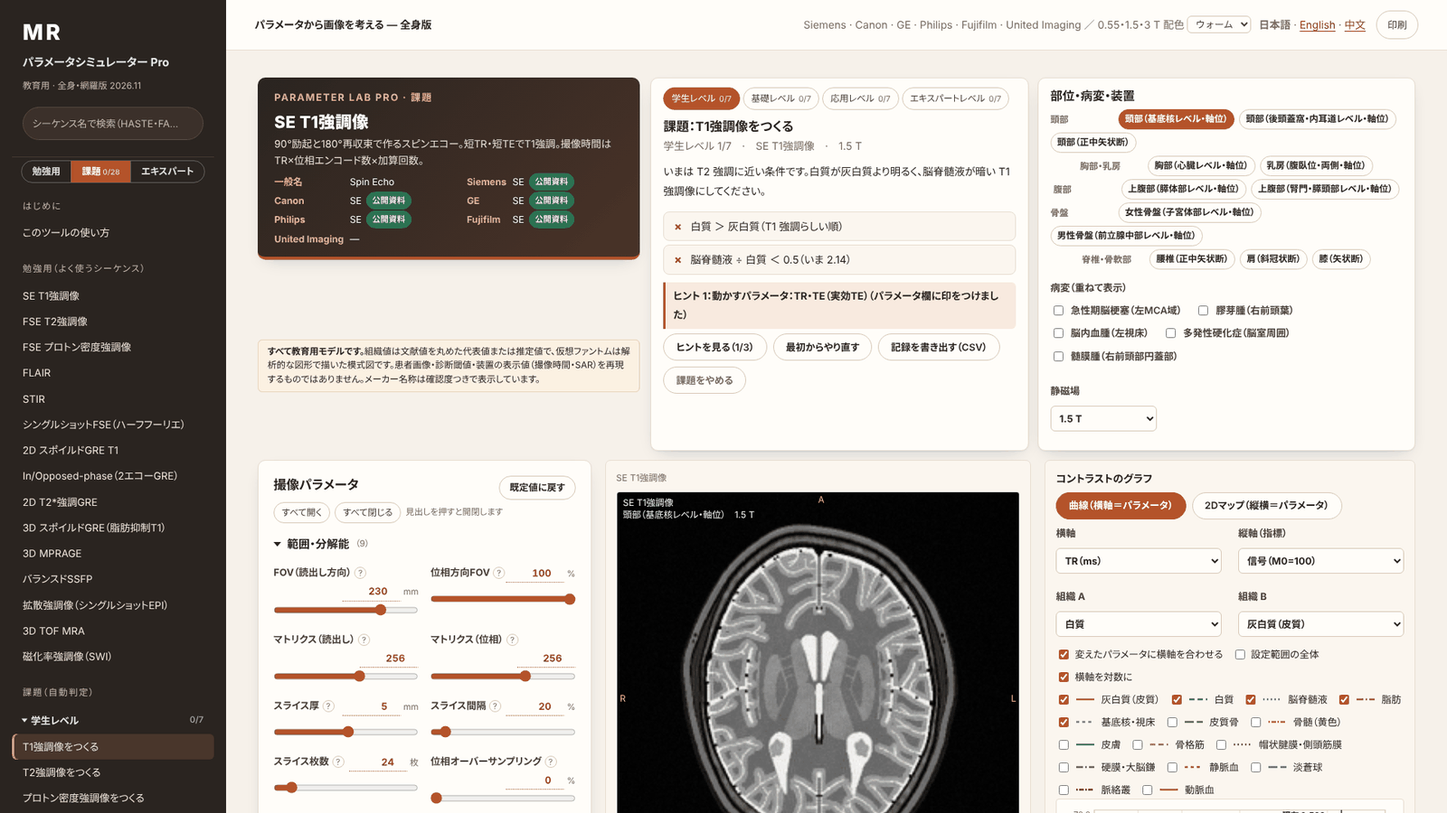
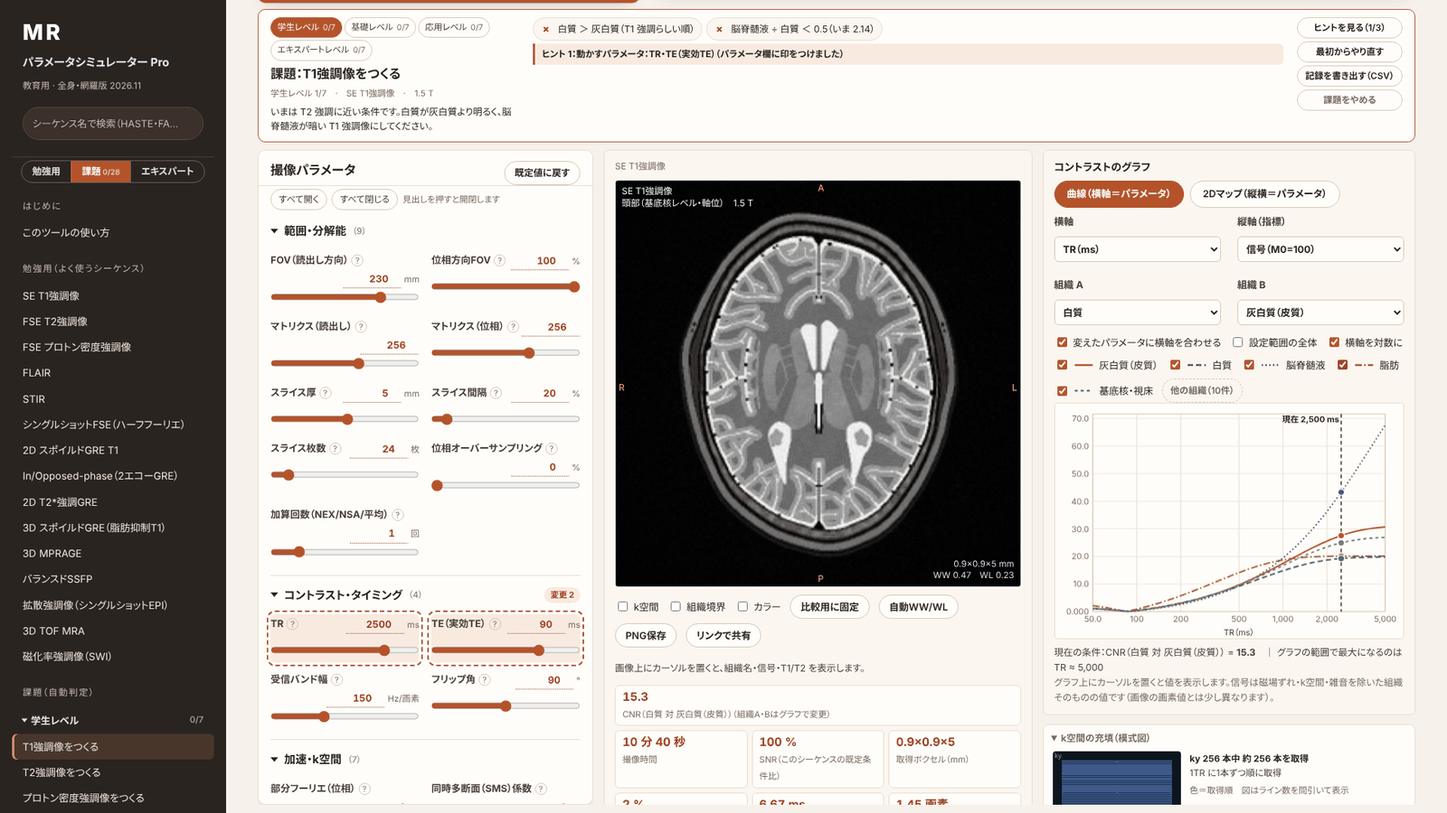
PC の課題を作業画面のすぐ上の横長の帯に：課題・パラメータ・画像・グラフを 1 画面で
- 課題カードを 3 区画（タイトル・目標／原因の選択・条件・ヒント・結果／ボタン）の横長の帯にし、帯と 3 列で画面の高さに収める
- 課題を始めると帯が画面の上端に来るようにスクロール。スマホは従来どおりパラメータタブの先頭
- README の課題の説明とスクリーンショットを更新

Claude-Session: https://claude.ai/code/session_01BFr4Rqe7V4PB4mjcRbLySi

diff --git a/en.html b/en.html
@@ -766,6 +766,26 @@ body.mob .mlvsel button{font-size:11.5px;padding:3px 8px}
   body:not(.mob) #v-sim .chapter-header{padding:13px 20px 11px}
   body:not(.mob) #v-sim .chapter-header p{margin-bottom:2px}
 }
+
+/* ===== PC の課題バー（作業画面のすぐ上、横長） ===== */
+.mcol1,.mcol2,.mcol3{min-width:0}
+#mbar{scroll-margin-top:12px;margin:0 0 10px}
+body.mbar:not(.mob) #mstat{display:none!important}
+#mbar #learncard{display:flex;gap:18px;align-items:flex-start;margin:0;padding:10px 16px;border:1px solid var(--rt-accent);box-shadow:0 1px 0 rgba(0,0,0,.02)}
+#mbar .mcol1{flex:0 0 330px} #mbar .mcol2{flex:1 1 auto} #mbar .mcol3{flex:0 0 auto}
+#mbar .mlvsel{margin:0 0 6px;gap:3px} #mbar .mlvsel button{padding:2px 8px;font-size:11.5px}
+#mbar h2{font-size:16px;margin:0 0 2px;line-height:1.35} #mbar .mlv{margin:0 0 4px;font-size:11.5px} #mbar .mgoal{font-size:12.5px;line-height:1.55;margin:0}
+#mbar .mquiz{margin:0 0 6px;padding:5px 9px} #mbar .mquiz .mq{font-size:12.5px;margin:1px 0 4px} #mbar .mqopts button{padding:2px 9px;font-size:12px} #mbar .mqfb{margin:3px 0 0;font-size:12px}
+#mbar .mquiz .mq:last-child{display:none}
+#mbar .mcrit{display:flex;flex-wrap:wrap;gap:5px;margin:0 0 4px;font-size:12.5px}
+#mbar .mcrit li{margin:0;padding:3px 9px;border-radius:999px}
+#mbar .mhints .mhint{font-size:12px;margin:3px 0;padding:3px 9px}
+#mbar .mcol3 .sim-presets{display:flex;flex-direction:column;gap:4px;margin:0}
+#mbar .mcol3 .sim-presets button{font-size:12px;padding:4px 10px;min-height:0;white-space:nowrap}
+#mbar .mdone{margin-top:4px;padding:6px 10px} #mbar .mdone p{font-size:12px;margin:4px 0} #mbar .mdone button{font-size:12px;padding:3px 10px}
+@media(min-width:1200px) and (min-height:680px){
+  body.mbar:not(.mob) .pro-grid{height:calc(100vh - 34px - var(--mbarH,0px))}
+}
 #toast{position:fixed;left:50%;bottom:24px;transform:translateX(-50%) translateY(20px);background:var(--rt-ink,#1b2430);color:#fff;padding:9px 16px;border-radius:999px;font-size:13.5px;opacity:0;pointer-events:none;transition:all .2s;z-index:100}
 #toast.on{opacity:1;transform:translateX(-50%) translateY(0)}
 body.mob #toast{bottom:84px}
@@ -844,6 +864,7 @@ body.mob select{font-size:15px}
      <div class="les" id="les"></div><div id="popts" class="sim-controls"></div>
      <div class="sim-controls" id="sys"></div></section>
   </div>
+  <div id="mbar" class="mbar" hidden aria-label="Task"></div>
   <div class="pro-grid">
    <div class="pro-params">
     <section class="sim-card" id="sim-params"><h2>Imaging parameters <button type="button" class="chipbtn" id="reset" style="float:right;font-size:12.5px">Reset to defaults</button></h2>
@@ -9262,7 +9283,7 @@ function setHash(h){ try{ history.replaceState(null,'','#'+h); }catch(e){} }
 function startLearn(seq){ endAttempt(); var L=MS.LEARN_MAP[seq]; mode='learn'; st=MS.defaultState(L.ph,seq,null); st.B0=B0pref; st.les={}; if(L.popt) Object.keys(L.popt).forEach(function(k){ st.popt[k]=L.popt[k]; }); (L.les||[]).forEach(function(k){ st.les[k]=true; }); if(L.agent){ st.agent=L.agent; st.cphase=L.cphase||0; }
   chart.mode='curve'; chart.xk=L.x; chart.metric=L.m; chart.A=L.A; chart.B=L.B; chart.hide={}; chart.follow=true; lastChanged=null; prevRes=null; manualW=null; cur=(seq==='dwi')?1:0; snrRef=null; refInfo();
   buildPhantomSel(); buildSys(); buildLesions(); buildSeqList(); buildParams(); seqCard(); schedule(); setHash('learn'); }
-function learnCard(){ var box=$('#learncard'); if(mode==='mission'&&mission){ missionCard(box); return; } mstatHide(); var L=mode==='learn'?MS.LEARN_MAP[st.seq]:null; $('#protop').classList.toggle('one',!L); if(!L){ box.hidden=true; return; } box.hidden=false; box.innerHTML='';
+function learnCard(){ var box=$('#learncard'); if(mode==='mission'&&mission){ missionCard(box); return; } mstatHide(); placeMissionBar(); var L=mode==='learn'?MS.LEARN_MAP[st.seq]:null; $('#protop').classList.toggle('one',!L); if(!L){ box.hidden=true; return; } box.hidden=false; box.innerHTML='';
   box.appendChild(el('h2',{},'Teaching points')); box.appendChild(el('p',{},L.goal)); var ul=el('ul',{style:'font-size:14px'}); L.pts.forEach(function(t){ ul.appendChild(el('li',{},t)); }); box.appendChild(ul);
   var pr=el('div',{class:'sim-presets'}); L.pre.forEach(function(x){ var b=el('button',{type:'button'},x[0]); b.onclick=function(){ Object.keys(x[1]).forEach(function(k){ st.p[k]=x[1][k]; lastChanged=k; }); if(x[2]) Object.keys(x[2]).forEach(function(k){ st[k]=x[2][k]; }); buildParams(); schedule(); }; pr.appendChild(b); }); box.appendChild(pr);
   var sw=el('p',{class:'sim-note',style:'margin-top:14px'}); var a=el('button',{type:'button',class:'quiet-link',style:'border:0;background:none;color:var(--rt-link);text-decoration:underline;padding:0;font-size:12px'},'Open the same sequence in Expert mode (all parameters)'); a.onclick=function(){ mode='expert'; buildSeqList(); buildParams(); seqCard(); setHash('expert'); schedule(); }; sw.appendChild(document.createTextNode('To explore in more detail:')); sw.appendChild(a); box.appendChild(sw); }
@@ -9576,7 +9597,7 @@ function tables(){ function cf(c){ if(c==='—'||!c) return ''; return '<span cl
   $('#refs').innerHTML=MS.REFS.map(function(r){ return '<li>['+r.k+'] '+r.t+' PMID: <a href="https://pubmed.ncbi.nlm.nih.gov/'+r.pmid+'/" target="_blank" rel="noopener">'+r.pmid+'</a></li>'; }).join('');
   $('#about').innerHTML=MS.ABOUT; }
 /* ---------- 初期化 ---------- */
-function init(){ tables(); try{ if(window.top!==window) $('#save').hidden=true; }catch(e){ $('#save').hidden=true; }
+function init(){ setTimeout(function(){ booted=true; },1500); tables(); try{ if(window.top!==window) $('#save').hidden=true; }catch(e){ $('#save').hidden=true; }
   $('#seqq').oninput=buildSeqList;
   $('#reset').onclick=function(){ newState(st.phantom,st.seq,true); }; initGroupTools(); mobSetup();
   (function(){ var ts=$('#themesel'); if(!ts) return; ts.value=document.documentElement.getAttribute('data-theme')||'standard'; ts.onchange=function(){ var v=ts.value; if(v==='standard') document.documentElement.removeAttribute('data-theme'); else document.documentElement.setAttribute('data-theme',v); try{ localStorage.setItem('mrisimTheme',v); }catch(e){} if(res&&view==='sim') show(res); }; })();
@@ -9605,7 +9626,7 @@ function mobSetup(){ var on=!!(MQ&&MQ.matches); document.body.classList.toggle('
   if(on && !mobHome){ mobHome={out:[out.parentNode,out.nextSibling], lc:[lc.parentNode,lc.nextSibling]}; v.insertBefore(out,v.firstChild); pp.insertBefore(lc,pp.firstChild);
     if(!$('#mtabs')) buildMtabs(); setMtab(mtab,true); }
   else if(!on && mobHome){ mobHome.out[0].insertBefore(out,mobHome.out[1]); mobHome.lc[0].insertBefore(lc,mobHome.lc[1]); mobHome=null; document.body.removeAttribute('data-mtab'); }
-  placeChart();
+  placeChart(); placeMissionBar();
   if(was!==on && res && view==='sim') show(res); }
 function buildMtabs(){ var nav=el('nav',{id:'mtabs','aria-label':'Switch view'});
   [['setup','Anatomy'],['params','Parameters'],['chart','Chart'],['info','Details']].forEach(function(t){ var b=el('button',{type:'button','data-t':t[0]},t[1]); b.onclick=function(){ setMtab(t[0]); }; nav.appendChild(b); });
@@ -9613,6 +9634,7 @@ function buildMtabs(){ var nav=el('nav',{id:'mtabs','aria-label':'Switch view'})
 function setMtab(t,quiet){ mtab=t; document.body.setAttribute('data-mtab',t); document.querySelectorAll('#mtabs button').forEach(function(b){ b.setAttribute('aria-pressed',String(b.getAttribute('data-t')===t)); });
   if(!quiet) window.scrollTo(0,0);
   if(t==='chart' && res){ try{ drawChart(); }catch(e){} } }
+if(MQW){ var pmb=function(){ placeMissionBar(); }; if(MQW.addEventListener) MQW.addEventListener('change',pmb); else if(MQW.addListener) MQW.addListener(pmb); }
 if(MQ){ if(MQ.addEventListener) MQ.addEventListener('change',mobSetup); else if(MQ.addListener) MQ.addListener(mobSetup); }
 
 /* ---------- パルスシーケンス図 ---------- */
@@ -9709,7 +9731,7 @@ function applyShared(obj){ if(!obj||!MS.SEQ[obj.sq]||!MS.PHANTOMS[obj.ph]) retur
 var toastT=null; function toast(t){ var d=$('#toast'); if(!d){ d=el('div',{id:'toast',role:'status','aria-live':'polite'}); document.body.appendChild(d); } d.textContent=t; d.classList.add('on'); clearTimeout(toastT); toastT=setTimeout(function(){ d.classList.remove('on'); },2200); }
 
 /* ---------- 課題モード（自動判定・ヒント・記録） ---------- */
-var mission=null, mrec=null, mhint=0, openLv={};
+var mission=null, mrec=null, mhint=0, openLv={}, booted=false;
 var LVN={'Student':'Student level','Basic':'Basic level','Advanced':'Advanced level','Expert':'Expert level'};
 function lvProgress(lv){ var sv=solvedSet(), ms=MS.MISSIONS.filter(function(M){ return M.lv===lv; }); return {n:ms.length, done:ms.filter(function(M){ return sv[M.id]; }).length, next:(ms.filter(function(M){ return !sv[M.id]; })[0]||ms[0])}; }
 function loadRecs(){ try{ return JSON.parse(localStorage.getItem('mrisimMissionLog')||'[]'); }catch(e){ return []; } }
@@ -9719,19 +9741,28 @@ function endAttempt(){ if(mrec&&!mrec.saved){ mrec.saved=true; var a=loadRecs();
 function startMission(id){ var M=MS.MISSION_MAP[id]; if(!M) return; endAttempt(); mission=M; mode='mission';
   st=MS.defaultState(M.ph,M.seq,null); st.B0=M.B0||B0pref; st.les={}; if(M.les) Object.keys(M.les).forEach(function(k){ st.les[k]=M.les[k]; }); if(M.popt) Object.keys(M.popt).forEach(function(k){ st.popt[k]=M.popt[k]; });
   if(M.init){ if(M.init.p) Object.keys(M.init.p).forEach(function(k){ st.p[k]=M.init.p[k]; }); if(M.init.st) Object.keys(M.init.st).forEach(function(k){ st[k]=M.init.st[k]; }); }
+  if(booted&&!document.body.classList.contains('mob')) setTimeout(function(){ var b=$('#mbar'); if(b&&!b.hidden){ var r=b.getBoundingClientRect(); if(r.top<0||r.top>window.innerHeight*0.6) b.scrollIntoView({behavior:'smooth',block:'start'}); } },80);
   mrec={id:M.id,start:Date.now(),hints:0,changes:-1,solved:false,quiz:0}; mhint=0; quizOK=false; quizTry=0; if(document.body.classList.contains('mob')&&typeof setMtab==='function') setMtab('params',true);
   chart.follow=true; chart.hide={}; lastChanged=null; prevRes=null; manualW=null; cur=0; refInfo(); defaultAB();
   buildPhantomSel(); buildSys(); buildLesions(); buildSeqList(); buildParams(); seqCard(); learnCard(); schedule(); }
-function missionCard(box){ var M=mission; $('#protop').classList.remove('one'); box.hidden=false; box.innerHTML='';
+function missionCard(box){ var M=mission; $('#protop').classList.remove('one'); box.hidden=false; box.innerHTML=''; var c1=el('div',{class:'mcol1'}), c2=el('div',{class:'mcol2'}), c3=el('div',{class:'mcol3'}); box.appendChild(c1); box.appendChild(c2); box.appendChild(c3); var root=box; box=c1;
   var lvb=el('div',{class:'mlvsel',role:'group','aria-label':'Task level'}); (MS.MISSION_LEVELS||[]).forEach(function(lv){ var pr=lvProgress(lv); if(!pr.n) return; var b=el('button',{type:'button',class:lv===M.lv?'on':'','aria-pressed':String(lv===M.lv)}); b.appendChild(document.createTextNode(LVN[lv]||lv)); b.appendChild(el('small',{},pr.done+'/'+pr.n)); b.onclick=function(){ if(lv!==M.lv) startMission(lvProgress(lv).next.id); }; lvb.appendChild(b); }); box.appendChild(lvb);
   var ms_=MS.MISSIONS.filter(function(x){ return x.lv===M.lv; }), qi=ms_.indexOf(M)+1;
   var h=el('h2',{},'Task: '+M.title); box.appendChild(h); box.appendChild(el('p',{class:'mlv'},(LVN[M.lv]||M.lv)+' '+qi+'/'+ms_.length+'　·　'+MS.SEQ[M.seq].n+'　·　'+(st.B0)+' T'));
-  box.appendChild(el('p',{},M.goal)); quizBox(box,M); var ul=el('ul',{id:'mcrit',class:'mcrit','aria-live':'polite'}); critsOf(M).forEach(function(c){ ul.appendChild(el('li',{},c.label)); }); box.appendChild(ul);
-  var hb=el('div',{id:'mhints',class:'mhints'}); box.appendChild(hb);
+  box.appendChild(el('p',{class:'mgoal'},M.goal)); box=c2; quizBox(box,M); var ul=el('ul',{id:'mcrit',class:'mcrit','aria-live':'polite'}); critsOf(M).forEach(function(c){ ul.appendChild(el('li',{},c.label)); }); box.appendChild(ul);
+  var hb=el('div',{id:'mhints',class:'mhints'}); box.appendChild(hb); box.appendChild(el('div',{id:'mresult'})); box=c3;
   var row=el('div',{class:'sim-presets'}); var b1=el('button',{type:'button',id:'mhintbtn'},'Show hint (0/'+mHints(M).length+')'); b1.onclick=function(){ if(mhint>=mHints(M).length) return; mhint++; if(mrec&&!mrec.solved) mrec.hints++; renderHints(); if(mhint===1&&M.keys){ var f=document.querySelector('#params .mhl'); if(f&&document.body.classList.contains('mob')) setTimeout(function(){ f.scrollIntoView({behavior:'smooth',block:'center'}); },350); } };
   var b2=el('button',{type:'button'},'Start over'); b2.onclick=function(){ startMission(M.id); };
   var b3=el('button',{type:'button'},'Export records (CSV)'); b3.onclick=exportRecs; var b4=el('button',{type:'button',class:'mquit'},'Quit task'); b4.onclick=function(){ quitMission(); }; row.appendChild(b1); row.appendChild(b2); row.appendChild(b3); row.appendChild(b4); box.appendChild(row);
-  box.appendChild(el('div',{id:'mresult'})); renderHints(); }
+  renderHints(); placeMissionBar(); }
+/* PC の課題：課題カードを作業画面のすぐ上に横長の帯で置く */
+var MQW=window.matchMedia?window.matchMedia('(min-width:1200px) and (min-height:680px)'):null, mbarRO=null;
+function placeMissionBar(){ var lc=$('#learncard'), bar=$('#mbar'), top=$('#protop'); if(!lc||!bar||!top) return; var mob=document.body.classList.contains('mob');
+  var want=!mob && mode==='mission' && !!mission && !!(MQW&&MQW.matches) && view==='sim';
+  if(want){ if(lc.parentNode!==bar) bar.appendChild(lc); bar.hidden=false; top.classList.add('one'); document.body.classList.add('mbar');
+    if(!mbarRO&&window.ResizeObserver){ mbarRO=new ResizeObserver(function(){ document.documentElement.style.setProperty('--mbarH',bar.offsetHeight+'px'); }); mbarRO.observe(bar); } document.documentElement.style.setProperty('--mbarH',bar.offsetHeight+'px'); }
+  else { if(!mob && lc.parentNode===bar) top.insertBefore(lc,top.firstChild); bar.hidden=true; document.body.classList.remove('mbar'); document.documentElement.style.setProperty('--mbarH','0px'); } }
+
 function mHints(M){ var ks=M.keys||[]; if(!ks.length) return M.hints; return ['Parameters to change: '+ks.map(keyName).join('; ')+' (marked in the parameter panel)'].concat(M.hints); }
 function keyName(k){ if(k==='fs') return 'Fat suppression'; if(k==='resp') return 'Respiration'; if(k==='satband') return 'Spatial saturation pulse'; if(k==='vat') return 'VAT'; if(k==='semac') return 'SEMAC'; var d=MS.PDEF[k]; return d?d.n:k; }
 function markMissionKeys(){ document.querySelectorAll('.sim-control.mhl,.chk.mhl').forEach(function(e){ e.classList.remove('mhl'); }); if(mode!=='mission'||!mission||mhint<1||!mission.keys) return;
@@ -9754,7 +9785,7 @@ function missionEval(){ if(mode!=='mission'||!mission||!res||!res.outs||!res.out
   else rb.innerHTML=''; }
 /* 課題を終えて、いまの条件のままエキスパート用へ */
 function quitMission(silent){ if(mode!=='mission') return; endAttempt(); mode='expert'; mission=null; mrec=null; mhint=0; mstatHide();
-  var c=$('#learncard'); if(c){ c.hidden=true; c.innerHTML=''; } $('#protop').classList.add('one');
+  var c=$('#learncard'); if(c){ c.hidden=true; c.innerHTML=''; } placeMissionBar(); $('#protop').classList.add('one');
   if(!silent){ seqCard(); learnCard(); buildSeqList(); buildParams(); schedule(); toast('Task ended'); } setHash('expert'); }
 
 function mstat(ok,n,all){ var b=$('#mstat'); if(!b){ var host=$('#metrics'); if(!host) return; b=el('button',{type:'button',id:'mstat',class:'mstat'}); b.onclick=function(){ if(document.body.classList.contains('mob')) setMtab('params'); var c=$('#learncard'); if(c) c.scrollIntoView({behavior:'smooth',block:'start'}); }; host.parentNode.insertBefore(b,host); }

diff --git a/zh.html b/zh.html
@@ -766,6 +766,26 @@ body.mob .mlvsel button{font-size:11.5px;padding:3px 8px}
   body:not(.mob) #v-sim .chapter-header{padding:13px 20px 11px}
   body:not(.mob) #v-sim .chapter-header p{margin-bottom:2px}
 }
+
+/* ===== PC の課題バー（作業画面のすぐ上、横長） ===== */
+.mcol1,.mcol2,.mcol3{min-width:0}
+#mbar{scroll-margin-top:12px;margin:0 0 10px}
+body.mbar:not(.mob) #mstat{display:none!important}
+#mbar #learncard{display:flex;gap:18px;align-items:flex-start;margin:0;padding:10px 16px;border:1px solid var(--rt-accent);box-shadow:0 1px 0 rgba(0,0,0,.02)}
+#mbar .mcol1{flex:0 0 330px} #mbar .mcol2{flex:1 1 auto} #mbar .mcol3{flex:0 0 auto}
+#mbar .mlvsel{margin:0 0 6px;gap:3px} #mbar .mlvsel button{padding:2px 8px;font-size:11.5px}
+#mbar h2{font-size:16px;margin:0 0 2px;line-height:1.35} #mbar .mlv{margin:0 0 4px;font-size:11.5px} #mbar .mgoal{font-size:12.5px;line-height:1.55;margin:0}
+#mbar .mquiz{margin:0 0 6px;padding:5px 9px} #mbar .mquiz .mq{font-size:12.5px;margin:1px 0 4px} #mbar .mqopts button{padding:2px 9px;font-size:12px} #mbar .mqfb{margin:3px 0 0;font-size:12px}
+#mbar .mquiz .mq:last-child{display:none}
+#mbar .mcrit{display:flex;flex-wrap:wrap;gap:5px;margin:0 0 4px;font-size:12.5px}
+#mbar .mcrit li{margin:0;padding:3px 9px;border-radius:999px}
+#mbar .mhints .mhint{font-size:12px;margin:3px 0;padding:3px 9px}
+#mbar .mcol3 .sim-presets{display:flex;flex-direction:column;gap:4px;margin:0}
+#mbar .mcol3 .sim-presets button{font-size:12px;padding:4px 10px;min-height:0;white-space:nowrap}
+#mbar .mdone{margin-top:4px;padding:6px 10px} #mbar .mdone p{font-size:12px;margin:4px 0} #mbar .mdone button{font-size:12px;padding:3px 10px}
+@media(min-width:1200px) and (min-height:680px){
+  body.mbar:not(.mob) .pro-grid{height:calc(100vh - 34px - var(--mbarH,0px))}
+}
 #toast{position:fixed;left:50%;bottom:24px;transform:translateX(-50%) translateY(20px);background:var(--rt-ink,#1b2430);color:#fff;padding:9px 16px;border-radius:999px;font-size:13.5px;opacity:0;pointer-events:none;transition:all .2s;z-index:100}
 #toast.on{opacity:1;transform:translateX(-50%) translateY(0)}
 body.mob #toast{bottom:84px}
@@ -844,6 +864,7 @@ body.mob select{font-size:15px}
      <div class="les" id="les"></div><div id="popts" class="sim-controls"></div>
      <div class="sim-controls" id="sys"></div></section>
   </div>
+  <div id="mbar" class="mbar" hidden aria-label="任务"></div>
   <div class="pro-grid">
    <div class="pro-params">
     <section class="sim-card" id="sim-params"><h2>扫描参数 <button type="button" class="chipbtn" id="reset" style="float:right;font-size:12.5px">恢复默认值</button></h2>
@@ -9262,7 +9283,7 @@ function setHash(h){ try{ history.replaceState(null,'','#'+h); }catch(e){} }
 function startLearn(seq){ endAttempt(); var L=MS.LEARN_MAP[seq]; mode='learn'; st=MS.defaultState(L.ph,seq,null); st.B0=B0pref; st.les={}; if(L.popt) Object.keys(L.popt).forEach(function(k){ st.popt[k]=L.popt[k]; }); (L.les||[]).forEach(function(k){ st.les[k]=true; }); if(L.agent){ st.agent=L.agent; st.cphase=L.cphase||0; }
   chart.mode='curve'; chart.xk=L.x; chart.metric=L.m; chart.A=L.A; chart.B=L.B; chart.hide={}; chart.follow=true; lastChanged=null; prevRes=null; manualW=null; cur=(seq==='dwi')?1:0; snrRef=null; refInfo();
   buildPhantomSel(); buildSys(); buildLesions(); buildSeqList(); buildParams(); seqCard(); schedule(); setHash('learn'); }
-function learnCard(){ var box=$('#learncard'); if(mode==='mission'&&mission){ missionCard(box); return; } mstatHide(); var L=mode==='learn'?MS.LEARN_MAP[st.seq]:null; $('#protop').classList.toggle('one',!L); if(!L){ box.hidden=true; return; } box.hidden=false; box.innerHTML='';
+function learnCard(){ var box=$('#learncard'); if(mode==='mission'&&mission){ missionCard(box); return; } mstatHide(); placeMissionBar(); var L=mode==='learn'?MS.LEARN_MAP[st.seq]:null; $('#protop').classList.toggle('one',!L); if(!L){ box.hidden=true; return; } box.hidden=false; box.innerHTML='';
   box.appendChild(el('h2',{},'学习要点')); box.appendChild(el('p',{},L.goal)); var ul=el('ul',{style:'font-size:14px'}); L.pts.forEach(function(t){ ul.appendChild(el('li',{},t)); }); box.appendChild(ul);
   var pr=el('div',{class:'sim-presets'}); L.pre.forEach(function(x){ var b=el('button',{type:'button'},x[0]); b.onclick=function(){ Object.keys(x[1]).forEach(function(k){ st.p[k]=x[1][k]; lastChanged=k; }); if(x[2]) Object.keys(x[2]).forEach(function(k){ st[k]=x[2][k]; }); buildParams(); schedule(); }; pr.appendChild(b); }); box.appendChild(pr);
   var sw=el('p',{class:'sim-note',style:'margin-top:14px'}); var a=el('button',{type:'button',class:'quiet-link',style:'border:0;background:none;color:var(--rt-link);text-decoration:underline;padding:0;font-size:12px'},'在专家模式中打开同一序列（全部参数）'); a.onclick=function(){ mode='expert'; buildSeqList(); buildParams(); seqCard(); setHash('expert'); schedule(); }; sw.appendChild(document.createTextNode('需要更深入了解时：')); sw.appendChild(a); box.appendChild(sw); }
@@ -9576,7 +9597,7 @@ function tables(){ function cf(c){ if(c==='—'||!c) return ''; return '<span cl
   $('#refs').innerHTML=MS.REFS.map(function(r){ return '<li>['+r.k+'] '+r.t+' PMID: <a href="https://pubmed.ncbi.nlm.nih.gov/'+r.pmid+'/" target="_blank" rel="noopener">'+r.pmid+'</a></li>'; }).join('');
   $('#about').innerHTML=MS.ABOUT; }
 /* ---------- 初期化 ---------- */
-function init(){ tables(); try{ if(window.top!==window) $('#save').hidden=true; }catch(e){ $('#save').hidden=true; }
+function init(){ setTimeout(function(){ booted=true; },1500); tables(); try{ if(window.top!==window) $('#save').hidden=true; }catch(e){ $('#save').hidden=true; }
   $('#seqq').oninput=buildSeqList;
   $('#reset').onclick=function(){ newState(st.phantom,st.seq,true); }; initGroupTools(); mobSetup();
   (function(){ var ts=$('#themesel'); if(!ts) return; ts.value=document.documentElement.getAttribute('data-theme')||'standard'; ts.onchange=function(){ var v=ts.value; if(v==='standard') document.documentElement.removeAttribute('data-theme'); else document.documentElement.setAttribute('data-theme',v); try{ localStorage.setItem('mrisimTheme',v); }catch(e){} if(res&&view==='sim') show(res); }; })();
@@ -9605,7 +9626,7 @@ function mobSetup(){ var on=!!(MQ&&MQ.matches); document.body.classList.toggle('
   if(on && !mobHome){ mobHome={out:[out.parentNode,out.nextSibling], lc:[lc.parentNode,lc.nextSibling]}; v.insertBefore(out,v.firstChild); pp.insertBefore(lc,pp.firstChild);
     if(!$('#mtabs')) buildMtabs(); setMtab(mtab,true); }
   else if(!on && mobHome){ mobHome.out[0].insertBefore(out,mobHome.out[1]); mobHome.lc[0].insertBefore(lc,mobHome.lc[1]); mobHome=null; document.body.removeAttribute('data-mtab'); }
-  placeChart();
+  placeChart(); placeMissionBar();
   if(was!==on && res && view==='sim') show(res); }
 function buildMtabs(){ var nav=el('nav',{id:'mtabs','aria-label':'切换显示'});
   [['setup','部位·病灶'],['params','参数'],['chart','曲线'],['info','详情']].forEach(function(t){ var b=el('button',{type:'button','data-t':t[0]},t[1]); b.onclick=function(){ setMtab(t[0]); }; nav.appendChild(b); });
@@ -9613,6 +9634,7 @@ function buildMtabs(){ var nav=el('nav',{id:'mtabs','aria-label':'切换显示'}
 function setMtab(t,quiet){ mtab=t; document.body.setAttribute('data-mtab',t); document.querySelectorAll('#mtabs button').forEach(function(b){ b.setAttribute('aria-pressed',String(b.getAttribute('data-t')===t)); });
   if(!quiet) window.scrollTo(0,0);
   if(t==='chart' && res){ try{ drawChart(); }catch(e){} } }
+if(MQW){ var pmb=function(){ placeMissionBar(); }; if(MQW.addEventListener) MQW.addEventListener('change',pmb); else if(MQW.addListener) MQW.addListener(pmb); }
 if(MQ){ if(MQ.addEventListener) MQ.addEventListener('change',mobSetup); else if(MQ.addListener) MQ.addListener(mobSetup); }
 
 /* ---------- パルスシーケンス図 ---------- */
@@ -9709,7 +9731,7 @@ function applyShared(obj){ if(!obj||!MS.SEQ[obj.sq]||!MS.PHANTOMS[obj.ph]) retur
 var toastT=null; function toast(t){ var d=$('#toast'); if(!d){ d=el('div',{id:'toast',role:'status','aria-live':'polite'}); document.body.appendChild(d); } d.textContent=t; d.classList.add('on'); clearTimeout(toastT); toastT=setTimeout(function(){ d.classList.remove('on'); },2200); }
 
 /* ---------- 課題モード（自動判定・ヒント・記録） ---------- */
-var mission=null, mrec=null, mhint=0, openLv={};
+var mission=null, mrec=null, mhint=0, openLv={}, booted=false;
 var LVN={'学生':'学生级','基础':'基础级','进阶':'进阶级','专家':'专家级'};
 function lvProgress(lv){ var sv=solvedSet(), ms=MS.MISSIONS.filter(function(M){ return M.lv===lv; }); return {n:ms.length, done:ms.filter(function(M){ return sv[M.id]; }).length, next:(ms.filter(function(M){ return !sv[M.id]; })[0]||ms[0])}; }
 function loadRecs(){ try{ return JSON.parse(localStorage.getItem('mrisimMissionLog')||'[]'); }catch(e){ return []; } }
@@ -9719,19 +9741,28 @@ function endAttempt(){ if(mrec&&!mrec.saved){ mrec.saved=true; var a=loadRecs();
 function startMission(id){ var M=MS.MISSION_MAP[id]; if(!M) return; endAttempt(); mission=M; mode='mission';
   st=MS.defaultState(M.ph,M.seq,null); st.B0=M.B0||B0pref; st.les={}; if(M.les) Object.keys(M.les).forEach(function(k){ st.les[k]=M.les[k]; }); if(M.popt) Object.keys(M.popt).forEach(function(k){ st.popt[k]=M.popt[k]; });
   if(M.init){ if(M.init.p) Object.keys(M.init.p).forEach(function(k){ st.p[k]=M.init.p[k]; }); if(M.init.st) Object.keys(M.init.st).forEach(function(k){ st[k]=M.init.st[k]; }); }
+  if(booted&&!document.body.classList.contains('mob')) setTimeout(function(){ var b=$('#mbar'); if(b&&!b.hidden){ var r=b.getBoundingClientRect(); if(r.top<0||r.top>window.innerHeight*0.6) b.scrollIntoView({behavior:'smooth',block:'start'}); } },80);
   mrec={id:M.id,start:Date.now(),hints:0,changes:-1,solved:false,quiz:0}; mhint=0; quizOK=false; quizTry=0; if(document.body.classList.contains('mob')&&typeof setMtab==='function') setMtab('params',true);
   chart.follow=true; chart.hide={}; lastChanged=null; prevRes=null; manualW=null; cur=0; refInfo(); defaultAB();
   buildPhantomSel(); buildSys(); buildLesions(); buildSeqList(); buildParams(); seqCard(); learnCard(); schedule(); }
-function missionCard(box){ var M=mission; $('#protop').classList.remove('one'); box.hidden=false; box.innerHTML='';
+function missionCard(box){ var M=mission; $('#protop').classList.remove('one'); box.hidden=false; box.innerHTML=''; var c1=el('div',{class:'mcol1'}), c2=el('div',{class:'mcol2'}), c3=el('div',{class:'mcol3'}); box.appendChild(c1); box.appendChild(c2); box.appendChild(c3); var root=box; box=c1;
   var lvb=el('div',{class:'mlvsel',role:'group','aria-label':'任务级别'}); (MS.MISSION_LEVELS||[]).forEach(function(lv){ var pr=lvProgress(lv); if(!pr.n) return; var b=el('button',{type:'button',class:lv===M.lv?'on':'','aria-pressed':String(lv===M.lv)}); b.appendChild(document.createTextNode(LVN[lv]||lv)); b.appendChild(el('small',{},pr.done+'/'+pr.n)); b.onclick=function(){ if(lv!==M.lv) startMission(lvProgress(lv).next.id); }; lvb.appendChild(b); }); box.appendChild(lvb);
   var ms_=MS.MISSIONS.filter(function(x){ return x.lv===M.lv; }), qi=ms_.indexOf(M)+1;
   var h=el('h2',{},'任务：'+M.title); box.appendChild(h); box.appendChild(el('p',{class:'mlv'},(LVN[M.lv]||M.lv)+' '+qi+'/'+ms_.length+'　·　'+MS.SEQ[M.seq].n+'　·　'+(st.B0)+' T'));
-  box.appendChild(el('p',{},M.goal)); quizBox(box,M); var ul=el('ul',{id:'mcrit',class:'mcrit','aria-live':'polite'}); critsOf(M).forEach(function(c){ ul.appendChild(el('li',{},c.label)); }); box.appendChild(ul);
-  var hb=el('div',{id:'mhints',class:'mhints'}); box.appendChild(hb);
+  box.appendChild(el('p',{class:'mgoal'},M.goal)); box=c2; quizBox(box,M); var ul=el('ul',{id:'mcrit',class:'mcrit','aria-live':'polite'}); critsOf(M).forEach(function(c){ ul.appendChild(el('li',{},c.label)); }); box.appendChild(ul);
+  var hb=el('div',{id:'mhints',class:'mhints'}); box.appendChild(hb); box.appendChild(el('div',{id:'mresult'})); box=c3;
   var row=el('div',{class:'sim-presets'}); var b1=el('button',{type:'button',id:'mhintbtn'},'查看提示（0/'+mHints(M).length+'）'); b1.onclick=function(){ if(mhint>=mHints(M).length) return; mhint++; if(mrec&&!mrec.solved) mrec.hints++; renderHints(); if(mhint===1&&M.keys){ var f=document.querySelector('#params .mhl'); if(f&&document.body.classList.contains('mob')) setTimeout(function(){ f.scrollIntoView({behavior:'smooth',block:'center'}); },350); } };
   var b2=el('button',{type:'button'},'重新开始'); b2.onclick=function(){ startMission(M.id); };
   var b3=el('button',{type:'button'},'导出记录（CSV）'); b3.onclick=exportRecs; var b4=el('button',{type:'button',class:'mquit'},'退出任务'); b4.onclick=function(){ quitMission(); }; row.appendChild(b1); row.appendChild(b2); row.appendChild(b3); row.appendChild(b4); box.appendChild(row);
-  box.appendChild(el('div',{id:'mresult'})); renderHints(); }
+  renderHints(); placeMissionBar(); }
+/* PC の課題：課題カードを作業画面のすぐ上に横長の帯で置く */
+var MQW=window.matchMedia?window.matchMedia('(min-width:1200px) and (min-height:680px)'):null, mbarRO=null;
+function placeMissionBar(){ var lc=$('#learncard'), bar=$('#mbar'), top=$('#protop'); if(!lc||!bar||!top) return; var mob=document.body.classList.contains('mob');
+  var want=!mob && mode==='mission' && !!mission && !!(MQW&&MQW.matches) && view==='sim';
+  if(want){ if(lc.parentNode!==bar) bar.appendChild(lc); bar.hidden=false; top.classList.add('one'); document.body.classList.add('mbar');
+    if(!mbarRO&&window.ResizeObserver){ mbarRO=new ResizeObserver(function(){ document.documentElement.style.setProperty('--mbarH',bar.offsetHeight+'px'); }); mbarRO.observe(bar); } document.documentElement.style.setProperty('--mbarH',bar.offsetHeight+'px'); }
+  else { if(!mob && lc.parentNode===bar) top.insertBefore(lc,top.firstChild); bar.hidden=true; document.body.classList.remove('mbar'); document.documentElement.style.setProperty('--mbarH','0px'); } }
+
 function mHints(M){ var ks=M.keys||[]; if(!ks.length) return M.hints; return ['需要调整的参数：'+ks.map(keyName).join('；')+'（已在参数栏中标出）'].concat(M.hints); }
 function keyName(k){ if(k==='fs') return '脂肪抑制'; if(k==='resp') return '呼吸'; if(k==='satband') return '空间饱和脉冲'; if(k==='vat') return 'VAT'; if(k==='semac') return 'SEMAC'; var d=MS.PDEF[k]; return d?d.n:k; }
 function markMissionKeys(){ document.querySelectorAll('.sim-control.mhl,.chk.mhl').forEach(function(e){ e.classList.remove('mhl'); }); if(mode!=='mission'||!mission||mhint<1||!mission.keys) return;
@@ -9754,7 +9785,7 @@ function missionEval(){ if(mode!=='mission'||!mission||!res||!res.outs||!res.out
   else rb.innerHTML=''; }
 /* 課題を終えて、いまの条件のままエキスパート用へ */
 function quitMission(silent){ if(mode!=='mission') return; endAttempt(); mode='expert'; mission=null; mrec=null; mhint=0; mstatHide();
-  var c=$('#learncard'); if(c){ c.hidden=true; c.innerHTML=''; } $('#protop').classList.add('one');
+  var c=$('#learncard'); if(c){ c.hidden=true; c.innerHTML=''; } placeMissionBar(); $('#protop').classList.add('one');
   if(!silent){ seqCard(); learnCard(); buildSeqList(); buildParams(); schedule(); toast('已退出任务'); } setHash('expert'); }
 
 function mstat(ok,n,all){ var b=$('#mstat'); if(!b){ var host=$('#metrics'); if(!host) return; b=el('button',{type:'button',id:'mstat',class:'mstat'}); b.onclick=function(){ if(document.body.classList.contains('mob')) setMtab('params'); var c=$('#learncard'); if(c) c.scrollIntoView({behavior:'smooth',block:'start'}); }; host.parentNode.insertBefore(b,host); }

diff --git a/src/ui.html b/src/ui.html
@@ -358,6 +358,26 @@ body.mob .mlvsel button{font-size:11.5px;padding:3px 8px}
   body:not(.mob) #v-sim .chapter-header{padding:13px 20px 11px}
   body:not(.mob) #v-sim .chapter-header p{margin-bottom:2px}
 }
+
+/* ===== PC の課題バー（作業画面のすぐ上、横長） ===== */
+.mcol1,.mcol2,.mcol3{min-width:0}
+#mbar{scroll-margin-top:12px;margin:0 0 10px}
+body.mbar:not(.mob) #mstat{display:none!important}
+#mbar #learncard{display:flex;gap:18px;align-items:flex-start;margin:0;padding:10px 16px;border:1px solid var(--rt-accent);box-shadow:0 1px 0 rgba(0,0,0,.02)}
+#mbar .mcol1{flex:0 0 330px} #mbar .mcol2{flex:1 1 auto} #mbar .mcol3{flex:0 0 auto}
+#mbar .mlvsel{margin:0 0 6px;gap:3px} #mbar .mlvsel button{padding:2px 8px;font-size:11.5px}
+#mbar h2{font-size:16px;margin:0 0 2px;line-height:1.35} #mbar .mlv{margin:0 0 4px;font-size:11.5px} #mbar .mgoal{font-size:12.5px;line-height:1.55;margin:0}
+#mbar .mquiz{margin:0 0 6px;padding:5px 9px} #mbar .mquiz .mq{font-size:12.5px;margin:1px 0 4px} #mbar .mqopts button{padding:2px 9px;font-size:12px} #mbar .mqfb{margin:3px 0 0;font-size:12px}
+#mbar .mquiz .mq:last-child{display:none}
+#mbar .mcrit{display:flex;flex-wrap:wrap;gap:5px;margin:0 0 4px;font-size:12.5px}
+#mbar .mcrit li{margin:0;padding:3px 9px;border-radius:999px}
+#mbar .mhints .mhint{font-size:12px;margin:3px 0;padding:3px 9px}
+#mbar .mcol3 .sim-presets{display:flex;flex-direction:column;gap:4px;margin:0}
+#mbar .mcol3 .sim-presets button{font-size:12px;padding:4px 10px;min-height:0;white-space:nowrap}
+#mbar .mdone{margin-top:4px;padding:6px 10px} #mbar .mdone p{font-size:12px;margin:4px 0} #mbar .mdone button{font-size:12px;padding:3px 10px}
+@media(min-width:1200px) and (min-height:680px){
+  body.mbar:not(.mob) .pro-grid{height:calc(100vh - 34px - var(--mbarH,0px))}
+}
 #toast{position:fixed;left:50%;bottom:24px;transform:translateX(-50%) translateY(20px);background:var(--rt-ink,#1b2430);color:#fff;padding:9px 16px;border-radius:999px;font-size:13.5px;opacity:0;pointer-events:none;transition:all .2s;z-index:100}
 #toast.on{opacity:1;transform:translateX(-50%) translateY(0)}
 body.mob #toast{bottom:84px}
@@ -433,6 +453,7 @@ body.mob select{font-size:15px}
      <div class="les" id="les"></div><div id="popts" class="sim-controls"></div>
      <div class="sim-controls" id="sys"></div></section>
   </div>
+  <div id="mbar" class="mbar" hidden aria-label="課題"></div>
   <div class="pro-grid">
    <div class="pro-params">
     <section class="sim-card" id="sim-params"><h2>撮像パラメータ <button type="button" class="chipbtn" id="reset" style="float:right;font-size:12.5px">既定値に戻す</button></h2>

diff --git a/README.md b/README.md
@@ -59,7 +59,7 @@
 |  | 内容 |
 |---|---|
 | 🎯 **目的を優先して最適化** | 「撮像時間を短く」「SNRを高く」「分解能を細かく」「コントラスト（CNR）を高く」「SARを下げる」のボタンで、制約（時間・SNR・SAR・分解能）を守りながらパラメータを自動調整。前後の比較を見てから適用・元に戻すができる |
-| 🏆 **課題モード（自動判定）** | 学生・基礎・応用・エキスパートの 4 レベル × 7 題＝28 題（「T1強調像をつくる」から「3T 膝の高分解能 PD 脂肪抑制」「MPRAGE の CNR 最大化」まで）。うち 8 題（⚠）はアーチファクト対策：雑音・呼吸のゴースト・並列画像の雑音・折り返し・化学シフト・金属・EPI の歪み・重なったアーチファクトをわざと入れた画像から始め、まず原因を選択式で答え、次に条件を変えて減らす（画像の背景信号で判定）。条件を満たすと自動でクリア判定、最初のヒントで動かすパラメータを示して画面に印をつける段階的なヒント、所要時間・ヒント回数・変更回数を CSV で書き出し（授業や教育研究の評価に使える） |
+| 🏆 **課題モード（自動判定）** | 学生・基礎・応用・エキスパートの 4 レベル × 7 題＝28 題（「T1強調像をつくる」から「3T 膝の高分解能 PD 脂肪抑制」「MPRAGE の CNR 最大化」まで）。うち 8 題（⚠）はアーチファクト対策：雑音・呼吸のゴースト・並列画像の雑音・折り返し・化学シフト・金属・EPI の歪み・重なったアーチファクトをわざと入れた画像から始め、まず原因を選択式で答え、次に条件を変えて減らす（画像の背景信号で判定）。PC では課題を作業画面のすぐ上に横長の帯で表示し、条件（✓／✗といまの値）・パラメータ・画像・グラフを 1 画面で見ながら調整できる。条件を満たすと自動でクリア判定、最初のヒントで動かすパラメータを示して画面に印をつける段階的なヒント、所要時間・ヒント回数・変更回数を CSV で書き出し（授業や教育研究の評価に使える） |
 | 🎓 **勉強用** | よく使う 15 シーケンスを、学習に必要なパラメータだけで。学習のポイントとプリセットつき |
 | 🔗 **リンクで共有** | 部位・シーケンス・パラメータ・グラフの設定を URL に入れて共有。開くと同じ条件が再現される（授業スライドや質問への回答に） |
 

diff --git a/README.en.md b/README.en.md
@@ -59,7 +59,7 @@
 | | |
 |---|---|
 | 🎯 **Optimize for a goal** | One-click buttons — Shorter scan, Higher SNR, Finer resolution, Higher contrast (CNR), Lower SAR — adjust parameters while respecting constraints (time, SNR, SAR, resolution). Review the before/after table, then apply or undo |
-| 🏆 **Tasks with auto-grading** | 28 tasks in four levels — Student, Basic, Advanced and Expert, seven each — from *Make a T1-weighted image* to *High-resolution fat-suppressed PD of the knee at 3 T* and *Raise grey–white CNR in MPRAGE*. Eight (⚠) are artifact tasks: they start from an image with deliberately introduced noise, respiratory ghosts, parallel-imaging noise, aliasing, chemical shift, metal, EPI distortion or several overlapping artifacts; you first identify the cause (multiple choice), then change the settings to reduce it (graded from the image background). Automatic pass/fail, graded hints (the first names the parameters to change and marks them on screen), and CSV export of time, hints used and changes made (usable for teaching and education research) |
+| 🏆 **Tasks with auto-grading** | 28 tasks in four levels — Student, Basic, Advanced and Expert, seven each — from *Make a T1-weighted image* to *High-resolution fat-suppressed PD of the knee at 3 T* and *Raise grey–white CNR in MPRAGE*. Eight (⚠) are artifact tasks: they start from an image with deliberately introduced noise, respiratory ghosts, parallel-imaging noise, aliasing, chemical shift, metal, EPI distortion or several overlapping artifacts; you first identify the cause (multiple choice), then change the settings to reduce it (graded from the image background). On desktop, the task is shown as a wide bar directly above the workspace, so criteria (✓/✗ with current values), parameters, image and chart are all on one screen. Automatic pass/fail, graded hints (the first names the parameters to change and marks them on screen), and CSV export of time, hints used and changes made (usable for teaching and education research) |
 | 🎓 **Learning mode** | 15 common sequences with only the parameters that matter for learning, teaching points and presets |
 | 🔗 **Share by link** | Region, sequence, parameters and chart settings are encoded in the URL; opening the link restores the same conditions (handy for slides or answering questions) |
 

diff --git a/README.zh-CN.md b/README.zh-CN.md
@@ -59,7 +59,7 @@
 | | |
 |---|---|
 | 🎯 **按目标优化** | “缩短扫描时间”“提高 SNR”“提高分辨率”“提高对比（CNR）”“降低 SAR”按钮，在遵守约束（时间、SNR、SAR、分辨率）的前提下自动调整参数；先看前后对比表再应用，也可撤销 |
-| 🏆 **任务模式（自动判定）** | 分为学生、基础、进阶、专家 4 个级别，每级 7 题，共 28 题（从“做出 T1 加权像”到“3T 膝关节高分辨率 PD 脂肪抑制”“提高 MPRAGE 的灰白质 CNR”）。其中 8 题（⚠）为伪影对策：从故意加入噪声、呼吸伪影、并行成像噪声、卷褶、化学位移、金属、EPI 变形或多种叠加伪影的图像开始，先用选择题回答原因，再修改条件减少伪影（按图像背景信号判定）。自动判定是否完成，分级提示（第一条提示指出需要调整的参数并在界面上标出），可导出用时、提示次数与修改次数（CSV），可用于教学与教育研究 |
+| 🏆 **任务模式（自动判定）** | 分为学生、基础、进阶、专家 4 个级别，每级 7 题，共 28 题（从“做出 T1 加权像”到“3T 膝关节高分辨率 PD 脂肪抑制”“提高 MPRAGE 的灰白质 CNR”）。其中 8 题（⚠）为伪影对策：从故意加入噪声、呼吸伪影、并行成像噪声、卷褶、化学位移、金属、EPI 变形或多种叠加伪影的图像开始，先用选择题回答原因，再修改条件减少伪影（按图像背景信号判定）。电脑上任务以横条显示在工作区正上方，可在一屏内同时看到条件（✓/✗ 与当前值）、参数、图像与图表进行调整。自动判定是否完成，分级提示（第一条提示指出需要调整的参数并在界面上标出），可导出用时、提示次数与修改次数（CSV），可用于教学与教育研究 |
 | 🎓 **学习模式** | 15 种常用序列，只显示学习所需参数，附要点与预设 |
 | 🔗 **链接分享** | 部位、序列、参数与图表设置写入 URL，打开即可重现相同条件（便于课件或答疑） |
 
